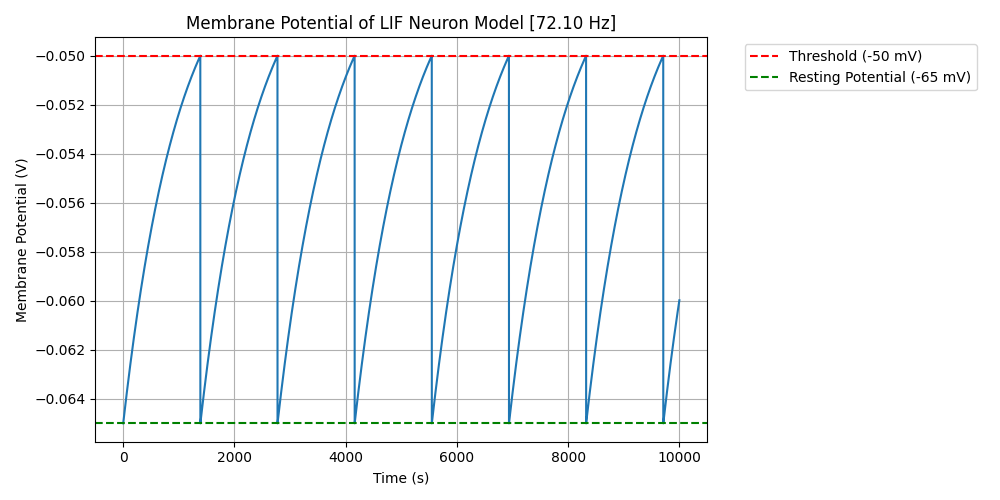
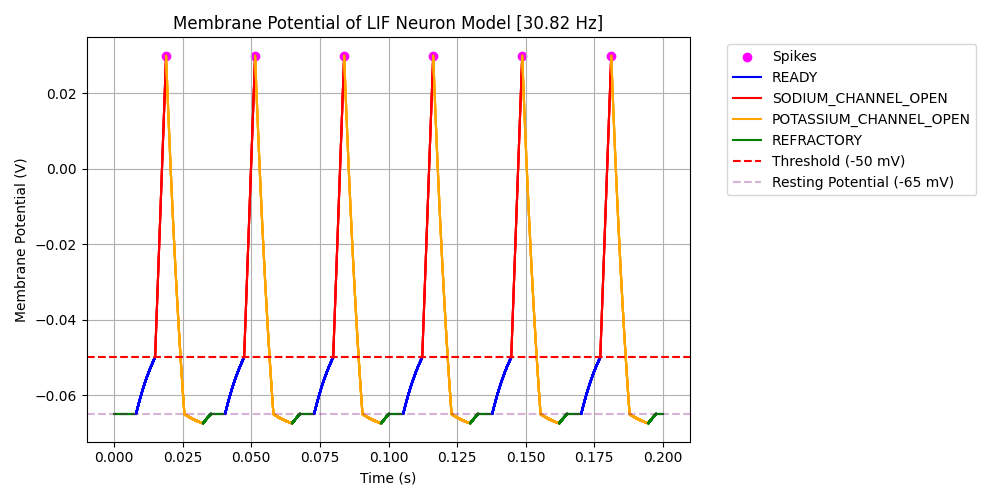
:)

diff --git a/src/week1/Week_1_Exercises/Week1Tasks/Exercises34752_week1/1.4/1.4_1v2.py b/src/week1/Week_1_Exercises/Week1Tasks/Exercises34752_week1/1.4/1.4_1v2.py
@@ -19,7 +19,7 @@ POTASSIUM_CHANNEL_CLOSE_OFFSET = -25e-4  # Offset for potassium channel close
 
 #region Parameters
 DT = 1e-5
-T = 0.1  # Total time in seconds
+T = 0.2  # Total time in seconds
 _I = 3e-9  # Current in Amperes
 Um_0 = -65e-3  # Initial membrane potential in volts
 #endregion
@@ -89,7 +89,7 @@ class Neuron:
         """
         self.time += DT
     
-    def LIF(self) -> np.ndarray:
+    def LIF(self, current_I) -> np.ndarray:
         #region initialization
         um_t = np.zeros(int(T // DT))
         um_t[0] = Um_0 #Set initial membrane potential
@@ -106,7 +106,7 @@ class Neuron:
 
                 # During the refractory period, the membrane potential is resting
                 if um_t[idx-1] < U_REST:
-                    um_t[idx] = min(um_t[idx-1] + dum_dt(um_t[idx-1], _I/4) * DT, U_REST)
+                    um_t[idx] = min(um_t[idx-1] + dum_dt(um_t[idx-1], current_I/4) * DT, U_REST)
                 else:
                     um_t[idx] = um_t[idx-1]
                 
@@ -119,7 +119,7 @@ class Neuron:
                 #region State Ready
                 
                 #Slowly increase membrane potential
-                um_t[idx] = um_t[idx-1] + dum_dt(um_t[idx-1], _I) * DT
+                um_t[idx] = um_t[idx-1] + dum_dt(um_t[idx-1], current_I) * DT
                 
                 # Check for spike condition
                 if um_t[idx] >= U_THRESH:
@@ -181,6 +181,8 @@ class Neuron:
             NeuronState.REFRACTORY: 'green'
         }
 
+        plt.scatter(time_points[self.find_spikes(membrane_potential)], membrane_potential[self.find_spikes(membrane_potential)], color='magenta', marker='o', label='Spikes')
+
         # Plot membrane potential, changing color based on state
         for i in range(len(states) - 1):
             plt.plot(time_points[i:i+2], membrane_potential[i:i+2], color=state_colors.get(states[i], 'black'))
@@ -203,6 +205,23 @@ class Neuron:
             plt.savefig(output_file)
         plt.show()
 
+    def plot_spiking_frequency(self, spiking_frequencies: list, output_file: str = 'spiking_frequency.png'):
+        """
+        Plot the spiking frequency over a range of input currents.
+        Parameters:
+        spiking_frequencies : list
+            List of spiking frequencies for different input currents.
+        """
+        plt.figure(figsize=(10,5))
+        plt.plot(spiking_frequencies, marker='o')
+        plt.xlabel('Input Current (A)')
+        plt.ylabel('Spiking Frequency (Hz)')
+        plt.title('Spiking Frequency vs Input Current')
+        plt.grid()
+        plt.tight_layout()
+        plt.savefig(output_file)
+        plt.show()
+
         
     
     def simulate(self, T: float, _I: float) -> np.ndarray:
@@ -210,12 +229,22 @@ class Neuron:
         Simulates the neuron over a given time period with a constant input current.
         """
         
-        membrane_potential, states = self.LIF()
+        membrane_potential, states = self.LIF(current_I=_I)
         spike_indices = self.find_spikes(membrane_potential)
         spiking_frequency = self.calculate_spiking_frequency(spike_indices, delta_t=DT)
         print("Spiking frequency (Hz):", spiking_frequency)
-        self.plot_membrane_potential(membrane_potential, spiking_frequency=spiking_frequency, states=states)
+        # self.plot_membrane_potential(membrane_potential, spiking_frequency=spiking_frequency, states=states, output_file='membrane_potential.png')
 
+        spike_frequencies = []
+        for current in np.arange(0, 10e-9, 1e-9):  # Loop through different current values
+            membrane_potential, states = self.LIF(current_I=current)
+            spike_indices = self.find_spikes(membrane_potential)
+            spiking_frequency = self.calculate_spiking_frequency(spike_indices, delta_t=DT)
+            print(f"Current: {current:.2e} A, Spiking frequency (Hz): {spiking_frequency:.2f}")
+            spike_frequencies.append(spiking_frequency)
+            # self.plot_membrane_potential(membrane_potential, spiking_frequency=spiking_frequency, states=states, output_file=f'membrane_potential_{current:.2e}.png')
+
+        self.plot_spiking_frequency(spike_frequencies, output_file='spiking_frequency.png')
 Neuron1 = Neuron()
 Neuron1.simulate(T, _I)
         

diff --git a/src/week1/Week_1_Exercises/Week1Tasks/Exercises34752_week1/1.4/TODO_1.4_1.py b/src/week1/Week_1_Exercises/Week1Tasks/Exercises34752_week1/1.4/TODO_1.4_1.py
@@ -91,7 +91,7 @@ def LIF(um_0, _I, T, expansion_disable = True):
 
 # Point 1.2
 
-def plot_membrane_potential(membrane_potential, output_file='membrane_potential.png'):
+def plot_membrane_potential(membrane_potential, output_file='membrane_potential.png', spike_indices = None):
     """
     Plot the membrane potential of the LIF neuron model.
     Parameters:
@@ -99,6 +99,8 @@ def plot_membrane_potential(membrane_potential, output_file='membrane_potential.
         Membrane potential time series.
     """
     plt.figure(figsize=(10,5))
+    if spike_indices:
+        plt.scatter(spike_indices, membrane_potential[spike_indices], color='red', label='Spikes', s=50, marker='o')
     plt.plot(list(range(int(0.1//1e-5))), membrane_potential)
     plt.xlabel('Time (s)')
     plt.ylabel('Membrane Potential (V)')
@@ -108,7 +110,7 @@ def plot_membrane_potential(membrane_potential, output_file='membrane_potential.
     plt.legend(bbox_to_anchor=(1.05, 1), loc='upper left')
     plt.grid()
     plt.tight_layout()
-    plt.savefig('membrane_potential.png')
+    plt.savefig(output_file)
     plt.show()
 
 # TODO: Calculate the membrane potential using the LIF function from Point 1.1
@@ -174,7 +176,7 @@ spike_indices = find_spikes(membrane_potential)
 print("Spike indices:", spike_indices)
 spiking_frequency = calculate_spiking_frequency(spike_indices, delta_t=1e-5)
 print("Spiking frequency (Hz):", spiking_frequency)
-plot_membrane_potential(membrane_potential)
+plot_membrane_potential(membrane_potential, spike_indices= spike_indices, output_file='membrane_potential_classic.png')
 
 
 membrane_potential = LIF(um_0=-65e-3, _I=2e-9, T=0.1, expansion_disable=False) # 1nA current for 0.1 seconds
@@ -182,7 +184,7 @@ spike_indices = find_spikes(membrane_potential)
 print("Spike indices:", spike_indices)
 spiking_frequency = calculate_spiking_frequency(spike_indices, delta_t=1e-5)
 print("Spiking frequency (Hz):", spiking_frequency)
-plot_membrane_potential(membrane_potential, output_file='membrane_potential_refraction.png')
+plot_membrane_potential(membrane_potential, output_file='membrane_potential_refraction.png', spike_indices= spike_indices)
 
 # membrane_potential2 = LIF(TODO)
 #plt.figure(figsize=(7,5))
@@ -201,7 +203,7 @@ step_size = 0.5e-9/4
 indices = np.arange(start, end, step_size)
 
 for current in indices: # Loop through different current values
-    membrane_potential = LIF(um_0=-65e-3, _I=current, T=0.1) # 1nA current for 0.1 seconds
+    membrane_potential = LIF(um_0=-65e-3, _I=current, T=0.1, expansion_disable=False) # 1nA current for 0.1 seconds
     spike_indices = find_spikes(membrane_potential)
     spiking_frequency = calculate_spiking_frequency(spike_indices, delta_t=1e-5)
     spikes.append(spiking_frequency)
